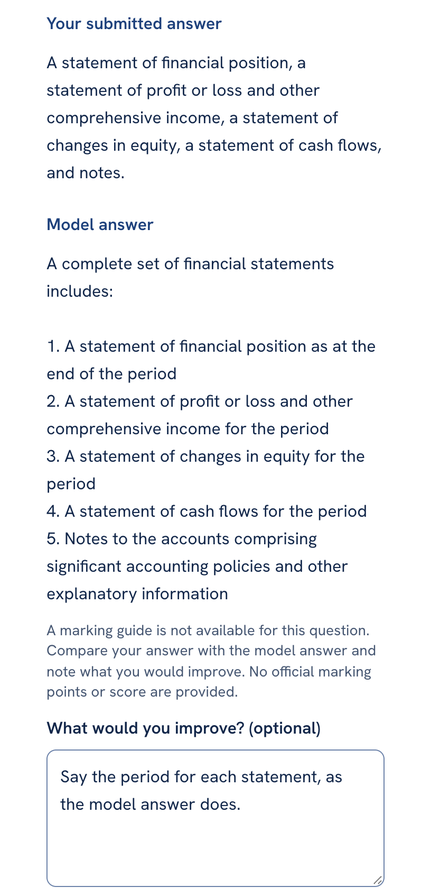
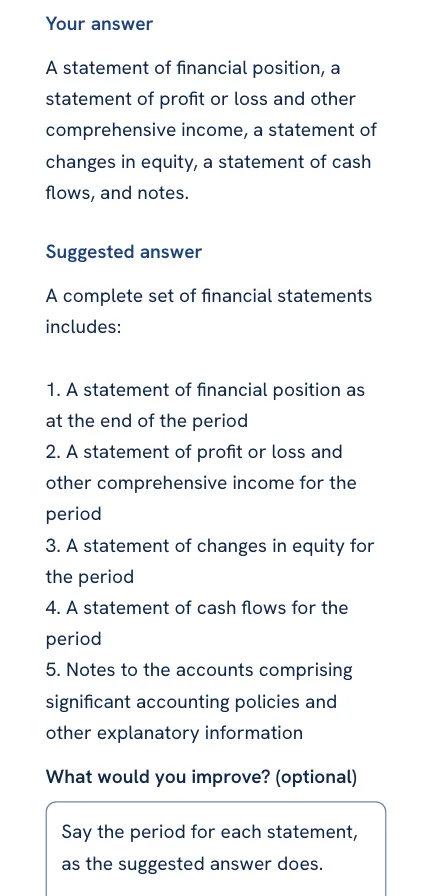
fix: student copy follow-ups

Changed region(s): [[0.0903, 0.0625, 0.8727, 1.0], [0.1204, 0.0, 0.5116, 0.0312], [0.8727, 0.8438, 0.9028, 1.0]]

diff --git a/app/courses/[slug]/theory/page.tsx b/app/courses/[slug]/theory/page.tsx
@@ -21,7 +21,6 @@ import type { ReactElement } from 'react'
 
 export const dynamic = 'force-dynamic'
 export const metadata = { title: 'Theory practice | CampusIntell', robots: { index: false, follow: false } }
-const LEDE = 'Write your answer, then compare it with the suggested answer.'
 
 /** Gate the complete theory workspace before resolving any published content. */
 export default async function TheoryPage({ params }: { params: Promise<{ slug: string }> }): Promise<ReactElement> {
@@ -40,14 +39,14 @@ async function Theory({ slug, continuityToken }: { slug: string; continuityToken
   } catch { result = { status: 'unavailable' } }
   if (result.status === 'not-found') return notFound()
   if (result.status === 'signed-out') return redirectForStudentState('signed-out', `/courses/${slug}/theory`)
-  if (result.status === 'locked') return <StudentPage band={<PageBand title="Theory practice" lede={LEDE} />}>
+  if (result.status === 'locked') return <StudentPage band={<PageBand title="Theory practice" />}>
     <LockedCourseNotice outsideList={result.outsideList} reason={result.reason} backHref={`/courses/${encodeURIComponent(slug)}`} backLabel="Back to course"
       plansOnSale={await readPlansOnSale(await createClient()).catch(() => false)} />
   </StudentPage>
-  if (result.status === 'unavailable' && result.notAvailable) return <StudentPage band={<PageBand title="Theory practice" lede={LEDE} />}>
+  if (result.status === 'unavailable' && result.notAvailable) return <StudentPage band={<PageBand title="Theory practice" />}>
     <Notice tone="info" title={STUDY_COPY.notYetAvailable}>{null}</Notice>
   </StudentPage>
-  if (result.status !== 'ready') return <StudentPage band={<PageBand title="Theory practice" lede={LEDE} />}>
+  if (result.status !== 'ready') return <StudentPage band={<PageBand title="Theory practice" />}>
     <ResultNotice state={result.status === 'invariant-failure' ? 'course-invariant' : 'course-unavailable'}
       retryHref={`/courses/${encodeURIComponent(slug)}/theory`} />
   </StudentPage>
@@ -57,14 +56,13 @@ async function Theory({ slug, continuityToken }: { slug: string; continuityToken
   const labels = theoryDisplayNumbers(materials.map(material => material.question))
   const questions = materials.flatMap((material, index) =>
     material.feedback === null ? [] : [{ question: material.question, label: labels[index] }])
-  return <StudentPage band={<PageBand title="Theory practice" lede={LEDE}
+  return <StudentPage band={<PageBand title="Theory practice"
     context={<p>{course.code} · {course.title}</p>}
     aside={<Link href={course.href} prefetch={false} className={studentAction(btnGhost, 'bg-student-surface')}>Back to course</Link>} />}>
     <div className="student-stack min-w-0">
-      {questions.length === 0 ? <Notice tone="info" title="Theory practice unavailable">
+      {questions.length === 0 ? <Notice tone="info" title="Theory practice isn’t available for this course">
         Check the course page for theory questions to revise and other study materials.
       </Notice> : <div className="student-stack">
-        <p className="student-meta">Choose a question to start.</p>
         {questions.map(({ question, label }, index) => <details key={`${question.itemId}:${question.publishedRevision}:${continuityToken}`} name="theory-practice"
           open={index === 0} className="student-surface min-w-0">
           <summary className="min-h-11 cursor-pointer rounded-ci-btn-sm py-3 font-semibold text-student-primary [overflow-wrap:anywhere] focus-visible:outline focus-visible:outline-2 focus-visible:outline-student-focus">
@@ -73,7 +71,7 @@ async function Theory({ slug, continuityToken }: { slug: string; continuityToken
           <TheoryAttempt question={question} courseSlug={course.slug} continuityToken={continuityToken} />
         </details>)}
         {materials.length > questions.length && <p className="student-meta">
-          More theory questions, without suggested answers, are on the course page.
+          More theory questions are on the course page.
         </p>}
       </div>}
     </div>

diff --git a/app/courses/ai-practice/[courseId]/journey.ts b/app/courses/ai-practice/[courseId]/journey.ts
@@ -60,7 +60,7 @@ export type JourneyDeps = {
   requests: GenerationRequests
 }
 
-export const NOT_ENTITLED_TITLE = 'Campus Bot not included'
+export const NOT_ENTITLED_TITLE = 'Campus Bot isn’t included in your account'
 export const CAMPUS_BOT_LIMIT_TITLE = 'Campus Bot limit reached'
 
 /** Why AI practice is closed and where it opens. The pass is named only when this student is eligible for one. */
@@ -94,20 +94,20 @@ export function describeResult(result: AiPracticeResult, trial: TrialWording = N
     case 'flagged-for-review': return { ...problem('We couldn’t use this file',
       'We couldn’t use this material for course practice. Upload clear, appropriate study notes for this course instead. ' +
       'This did not use any of your Campus Bot allowance.', 'new-file', 'info'), allowance: result.allowance }
-    case 'generation-failed': return { ...problem('Questions not created',
+    case 'generation-failed': return { ...problem('We couldn’t create your questions',
       'Something went wrong while writing your questions. This did not use any of your Campus Bot allowance. Try again.',
       'same-file'), allowance: result.allowance }
-    case 'allowance-exhausted': return { ...problem('Campus Bot allowance used',
+    case 'allowance-exhausted': return { ...problem('You’ve used your Campus Bot allowance',
       `You have used all of the Campus Bot practice included in your ${grantName(result.allowance, trial)}. ` +
       'Your course materials stay available.', 'none', 'info'), allowance: result.allowance }
-    case 'allowance-expired': return { ...problem('Campus Bot access ended',
+    case 'allowance-expired': return { ...problem('Your Campus Bot access has ended',
       `Your ${grantName(result.allowance, trial)} has ended. Your course materials stay available.`, 'none', 'info'),
       allowance: result.allowance }
     case 'not-entitled': return problem(NOT_ENTITLED_TITLE, notEntitledMessage(trial, plansOnSale), 'none', 'info')
     case 'campus-bot-limit': return problem(CAMPUS_BOT_LIMIT_TITLE, result.limit === 'session'
       ? CAMPUS_BOT_LIMIT_COPY.session(result.resetsAt) : result.limit === 'week' ? CAMPUS_BOT_LIMIT_COPY.week(result.resetsAt)
         : CAMPUS_BOT_LIMIT_COPY.undelivered, 'none', 'info')
-    case 'busy': return problem('Questions still preparing',
+    case 'busy': return problem('Still preparing your questions',
       'Please wait a moment, then try again.', 'same-file', 'info')
     case 'capacity': return problem('Campus Bot is busy',
       'Too many students are generating questions right now. Try again later.', 'same-file', 'info')
@@ -115,7 +115,7 @@ export function describeResult(result: AiPracticeResult, trial: TrialWording = N
       'You have uploaded the maximum number of files for today. Try again tomorrow.', 'none', 'info')
     case 'pass-upload-limit': return problem('Free pass uploads used',
       'Your pass includes a small number of uploads and they have been used. They do not renew.', 'none', 'info')
-    case 'not-eligible': return problem('Course materials available',
+    case 'not-eligible': return problem('This course has study materials',
       'Use the study materials for this course instead.', 'none', 'info')
     case 'signed-out': return { ...problem('Signed out', 'Sign in again to continue.', 'none'), signedOut: true }
     case 'session-changed': return problem('Your sign-in has changed', 'Reload this page and try again.', 'none')

diff --git a/app/courses/[slug]/theory/SelfAssessment.tsx b/app/courses/[slug]/theory/SelfAssessment.tsx
@@ -44,7 +44,7 @@ export function SelfAssessment({ feedback, answer, courseSlug, onRetry }: {
 
   return <div className="student-stack min-w-0">
     <h2 ref={heading} tabIndex={-1} className="student-section-title">
-      {complete ? 'Review complete' : 'Compare your answer'}
+      {complete ? 'Review complete' : 'Check your answer'}
     </h2>
     <div className="grid min-w-0 gap-6 desktop:grid-cols-2">
       <section aria-labelledby={`${id}-yours`} className="min-w-0">
@@ -57,12 +57,11 @@ export function SelfAssessment({ feedback, answer, courseSlug, onRetry }: {
       </section>
     </div>
     {feedback.rubric && <section aria-labelledby={`${id}-rubric`}>
-      <h3 id={`${id}-rubric`} className="mb-3 font-semibold text-student-primary">Marking guide</h3>
+      <h3 id={`${id}-rubric`} className="mb-3 font-semibold text-student-primary">Key points</h3>
       <p className={theoryProse}>{feedback.rubric.body}</p>
     </section>}
     <form onSubmit={finish} className="student-stack">
       {feedback.rubric ? <>
-        <p className="student-meta">Rate how well your answer covered each point.</p>
         {points.map((point, index) => <fieldset key={index} disabled={complete} className="min-w-0 rounded-ci-btn-sm border border-student-border p-3">
           <legend className="max-w-full px-1 font-medium text-student-text-primary whitespace-pre-wrap [overflow-wrap:anywhere]">{point}</legend>
           <label htmlFor={`${id}-point-${index}`} className="mb-2 block text-sm text-student-text-primary">How did you do?</label>
@@ -80,7 +79,7 @@ export function SelfAssessment({ feedback, answer, courseSlug, onRetry }: {
         <p role="status" className="student-meta">
           {counts.covered} got it · {counts.partly} partly · {counts['not-yet']} not yet · {counts.reviewed} of {counts.total} points rated.
         </p>
-      </> : <p className="student-meta">Compare your answer with the suggested answer and note what you would improve.</p>}
+      </> : null}
       <div>
         <label htmlFor={`${id}-reflection`} className="mb-2 block font-semibold text-student-text-primary">What would you improve? (optional)</label>
         <textarea id={`${id}-reflection`} className={theoryTextarea} rows={4} maxLength={THEORY_REFLECTION_MAX_LENGTH}

diff --git a/lib/data/theory-questions.ts b/lib/data/theory-questions.ts
@@ -56,7 +56,7 @@ The three main categories are:
 NRV = Estimated selling price in the ordinary course of business - Estimated costs necessary to make the sale
 
 The estimated costs to make the sale include marketing costs, advertising costs, and transport/delivery costs to get the product to the customer.`,
-        examTip: 'Include the formula AND explain what costs are deducted. Give an example if time permits.',
+        examTip: 'Include the formula AND explain what costs are deducted. Give an example.',
       },
       {
         id: 4,
@@ -163,7 +163,7 @@ Borrowing costs can only be capitalized when they are directly related to bringi
 
 **Exception:**
 Brief, temporary delays that are a necessary part of the construction process do not stop capitalization.`,
-        examTip: 'State that capitalization STOPS, expense the interest, and explain the logic. Mention the exception about brief delays if time allows.',
+        examTip: 'State that capitalization STOPS, expense the interest, and explain the logic. Mention the exception about brief delays.',
       },
       {
         id: 10,
@@ -264,7 +264,7 @@ Cr Bank/Cash Account ₦2,000,000
 - These need to be added to or deducted from the cash book during reconciliation
 
 **Additional reasons:** Dishonored cheques, bank errors, timing differences.`,
-        examTip: 'List and explain three clearly. State the direction of the difference (cashbook higher/lower). Mention one or two additional reasons if time allows.',
+        examTip: 'List and explain three clearly. State the direction of the difference (cashbook higher/lower). Mention one or two additional reasons.',
       },
       {
         id: 14,

diff --git a/app/courses/ai-practice/[courseId]/AiPracticeClient.tsx b/app/courses/ai-practice/[courseId]/AiPracticeClient.tsx
@@ -21,11 +21,12 @@ const PHASE_COPY: Record<JourneyPhase, { title: string; detail: string }> = {
   generating: { title: 'Writing five questions', detail: 'This may take a moment. Keep this page open.' },
 }
 
-/** One honest sentence about the student's AI grant; nothing when there is none or it cannot be read. */
+/** One honest sentence about a counted grant; nothing for token-funded access (paid or Early Access, which have
+ *  session and week limits), when there is none, or when it cannot be read. */
 export function allowanceLine(allowance: AllowanceSummary | null, trial: TrialWording = NEUTRAL_TRIAL_WORDING): string | null {
   if (!allowance || allowance.state === 'not-entitled') return null
   if (allowance.state === 'expired') return `Your ${grantName(allowance, trial)} has ended.`
-  if (allowance.total === null) return 'Your Campus Bot access has no set limit while it lasts.'
+  if (allowance.total === null) return null
   const left = Math.max(0, allowance.total - allowance.used)
   const sets = `${left} of ${allowance.total} Campus Bot ${allowance.total === 1 ? 'set' : 'sets'} left`
   if (allowance.sourceCharLimit === undefined) return `${sets} in your ${grantName(allowance, trial)}.`

diff --git a/app/my-courses/page.tsx b/app/my-courses/page.tsx
@@ -52,7 +52,7 @@ function MyCoursesError({ state }: { state: ErrorState }): ReactElement {
   return <StudentPage band={<MyCoursesBand />}>
     {state === 'selection-changed'
       // Unique to this surface: the saved selection moved while the page was composing.
-      ? <Notice title="Semester selection changed" action={
+      ? <Notice title="Your semester selection has changed" action={
         <a href={MY_COURSES_PATH} className={studentAction(btnGhost, 'bg-student-surface')}>Try again</a>
       }>Your semester selection changed. Reload to see the latest courses.</Notice>
       : <ResultNotice state={RESULT_STATE[state]} retryHref={MY_COURSES_PATH} />}
@@ -77,7 +77,7 @@ function SemesterContext({ selection, total, ready }: {
 /** Render only the current session owner's persisted institutional semester. */
 export default async function MyCoursesPage(): Promise<ReactElement> {
   if (!isStudentAuthEnabled()) return <StudentPage band={<MyCoursesBand />}>
-    <Notice title="My Courses unavailable" tone="info">{AUTH_MESSAGES.comingSoon}</Notice>
+    <Notice title="My Courses isn’t available right now" tone="info">{AUTH_MESSAGES.comingSoon}</Notice>
   </StudentPage>
 
   let verified: {

diff --git a/app/courses/[slug]/quiz/practice-presentation.ts b/app/courses/[slug]/quiz/practice-presentation.ts
@@ -5,7 +5,7 @@ export const PRACTICE_COPY = {
   title: 'Practice',
   lede: 'Test your knowledge with timed multiple-choice questions.',
   backToCourse: 'Back to course',
-  notBuiltTitle: 'CBT practice unavailable.',
+  notBuiltTitle: 'CBT practice isn’t available for this course.',
   notBuiltBody: 'Check the course page for other study materials, or request the material you need.',
   temporaryBody: 'We couldn’t load the practice questions just now. Your saved results are unaffected.',
   loading: 'Loading practice.',
@@ -48,7 +48,6 @@ export const PRACTICE_COPY = {
   examOpenTitle: 'Finish your exam first.',
   examOpenBody: 'Practice opens again once your exam is submitted or its time runs out.',
   resumeExam: 'Resume exam',
-  bandNote: 'Practice feedback for this attempt only. Not an official grade.',
 } as const
 
 /** A start or resume problem; `retry` offers Try again, which repeats the same request; `action` links onward. */

diff --git a/app/courses/[slug]/quiz/QuizClient.tsx b/app/courses/[slug]/quiz/QuizClient.tsx
@@ -41,7 +41,7 @@ const PROBLEMS: Record<string, Problem> = {
   'resume-failed': { title: PRACTICE_COPY.resumeFailedTitle, body: PRACTICE_COPY.tryAgainBody, retry: true },
   'policy-changed': { title: PRACTICE_COPY.changedTitle, body: PRACTICE_COPY.changedBody },
   'questions-changed': { title: 'These questions have changed.', body: 'Retake with new questions instead.' },
-  'locked': { title: 'Can’t start right now.', body: 'Your plan no longer includes this course. Your results are unaffected.' },
+  'locked': { title: 'You can’t start a new practice right now.', body: 'Your plan no longer includes this course. Your results are unaffected.' },
   'signed-out': { title: PRACTICE_COPY.signedOutTitle, body: PRACTICE_COPY.signedOutBody },
   'session-changed': { title: 'You signed in on another tab.', body: 'Refresh this page to continue.' },
   // An instant start whose topic the course no longer has.

diff --git a/styles/student-app.css b/styles/student-app.css
@@ -435,7 +435,6 @@ body[data-screen='active'] > footer { display: none; }
 .student-practice-score-of { color: var(--student-primary); font-size: 20px; font-weight: 650; line-height: 1.3; }
 .student-practice-band { margin: 20px 0 0; padding-left: 14px; box-shadow: inset 3px 0 0 var(--ci-brand-blue); }
 .student-practice-band b { display: block; color: var(--student-primary); font-size: 17px; font-weight: 700; }
-.student-practice-band span { color: var(--student-text-muted); font-size: 13px; }
 .student-practice-break { display: grid; grid-template-columns: repeat(3, minmax(0, 1fr)); margin: 28px 0 0; border: 1px solid var(--student-border); border-radius: 16px; overflow: hidden; }
 .student-practice-break > div { padding: 14px 16px; border-left: 1px solid var(--student-border); }
 .student-practice-break > div:first-child { border-left: 0; }

diff --git a/app/courses/[slug]/theory/TheoryAttempt.tsx b/app/courses/[slug]/theory/TheoryAttempt.tsx
@@ -71,7 +71,7 @@ export function TheoryAttempt({ question, courseSlug, continuityToken }: {
         <textarea id={`${id}-answer`} ref={answerField} className={theoryTextarea} rows={9}
           maxLength={THEORY_ANSWER_MAX_LENGTH} value={answer} disabled={busy}
           aria-describedby={`${id}-help ${id}-count`} onChange={event => setAnswer(event.currentTarget.value)} />
-        <p id={`${id}-help`} className="student-meta mt-2">Write as much as you can, or leave it blank to see the answer.</p>
+        <p id={`${id}-help`} className="student-meta mt-2">Type your answer.</p>
         <p id={`${id}-count`} className="student-meta mt-1">{answer.length} / {THEORY_ANSWER_MAX_LENGTH} characters</p>
       </div>
       {error && <p role="alert" className="student-meta">{error}</p>}

diff --git a/app/courses/ai-practice/[courseId]/page.tsx b/app/courses/ai-practice/[courseId]/page.tsx
@@ -74,7 +74,7 @@ async function AiPracticeCourse({ courseId, continuityToken }: { courseId: strin
   // A locked course is built too: its page explains how to unlock it.
   if (sets.length === 0 && (isActionableStudentCourse(course) || isLockedStudentCourse(course))) redirect(course.repository.route.href)
   if (sets.length === 0 && !isAiPracticeEligible(course)) {
-    return <Unavailable title="Course temporarily unavailable" message="Try again in a few minutes." />
+    return <Unavailable title="This course isn’t available right now" message="Try again in a few minutes." />
   }
   // AI copy names the student's own grant (a Discovery Pass, or a seven-day trial issued before it) and offers a pass
   // only when this account can still start one; a read failure stays neutral.

diff --git a/app/courses/[slug]/quiz/ResultsScreen.tsx b/app/courses/[slug]/quiz/ResultsScreen.tsx
@@ -75,7 +75,7 @@ export function ResultsScreen(props: Props): ReactElement {
           <span className="student-practice-score-pct">{percent}%</span>
           <span className="student-practice-score-of">{correct} of {total} correct</span>
         </div>
-        <p className="student-practice-band"><b>{practiceBand(percent)}</b><span>{PRACTICE_COPY.bandNote}</span></p>
+        <p className="student-practice-band"><b>{practiceBand(percent)}</b></p>
         <dl className="student-practice-break">
           <div><dt><Check aria-hidden="true" size={16} strokeWidth={2.25} />Correct</dt><dd>{correct}</dd></div>
           <div><dt><X aria-hidden="true" size={16} strokeWidth={2.25} />Incorrect</dt><dd>{incorrect}</dd></div>
